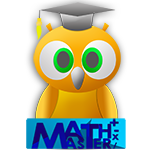
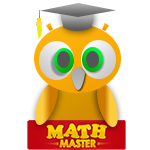
yeah
yeah

diff --git a/index.html b/index.html
@@ -5,7 +5,7 @@
 
 
 		<meta name="viewport" content="width=device-width, initial-scale=1">
-		<title>BLUFF | FACT</title>
+		<title>MATH | MASTER</title>
 		<link rel="stylesheet" href="themes/CAP.min.css" />
 		<link rel="stylesheet" href="themes/1.css" />
 		<script src="themes/1.js"></script>
@@ -24,13 +24,14 @@ background-size:100%;
 }
 
 
-		</style>		
+		</style>	
+		
 		
 	    
 <script>
 function changefact(){
-	setTimeout("changefact1('images/FACT1.png')", 750);
-	setTimeout("changefact1('images/FACT.png')", 1000);
+	setTimeout("changefact1('images/FACT.png')", 750);
+	setTimeout("changefact1('images/FACT1.png')", 1000);
 	
 	setTimeout("changefact2()", 750);
 }
@@ -123,18 +124,20 @@ $("#regpicture").slideUp();
 		function reg(){
 		var con =  document.getElementById('conf').value;
 		var user = document.getElementById('username').value;
-		var name  = document.getElementById('name').value;
 		var add  = document.getElementById('address').value;
 		var pass  = document.getElementById('password').value;
 	
 
-		if(con==pass){
+		if(con==pass ){
 		window.localStorage.setItem("username", user);
-		window.localStorage.setItem("name", name);
 		window.localStorage.setItem("address", add);
 		window.localStorage.setItem("password", pass);
-		window.open('index.html');
+		
 		}
+		else if(con==pass){
+		alert('You are now Registered!');
+		}
+		
 		else{
 		
 		alert('Password does not match!');
@@ -143,8 +146,17 @@ $("#regpicture").slideUp();
 		}
 		
 		
+		
+		
+		
+
 	
 		</script>
+		
+		
+		
+		
+		
 <style>	
 	.hello {
 	text-align: center;
@@ -207,9 +219,18 @@ $("#regpicture").slideUp();
 }
 </style>			
 		
-			
+	
+
+
+	
 </head>
-<body onLoad="changeeye(); load(); changefact(); changebluff();">
+
+<body onLoad="changeeye(); load(); changefact(); changebluff(); loadSound();">
+
+<audio loop="loop" id="audiobg">
+	<source src="mathmaster.wav"></source>
+	Your browser isn't invited for super fun audio time.
+</audio>
 
 <div data-role="page" id="mainpage" class="content" style="background-color: #f1ab02;">
 
@@ -236,10 +257,8 @@ $("#regpicture").slideUp();
  </div>
 <div data-role="content"  >
 <form >
-<label class="userstyle">USER</label>
+<label class="userstyle">USERNAME</label>
 <input type="text" name = "username" id="username" placeholder="USERNAME" style="text-transform: uppercase"   required />
-<label class="namestyle">NAME</label>
-<input type="text" name = "name" id="name"  placeholder="LN, FN, MI" style="text-transform: uppercase"   required />
 <label class="addressstyle"  >ADDRESS</label>
 <input type="text" name="address" id="address" placeholder="CITY , COUNTRY" style="text-transform: uppercase"   required  />
 <label class="passwordstyle" >PASSWORD</label>	 
@@ -276,12 +295,14 @@ $("#regpicture").slideUp();
 </div>
 
 
-<div data-role="page" id="successfully" class="content" style= "background-image: url(images/bg2.png); background-size:100%; background-repeat: no-repeat; background-color: #f1ab02; ">
+<div data-role="page" id="successfully" class="content" style= "background-image: url(images/bgsuccessfull.png); background-size:100%; background-repeat: no-repeat; background-color: #f1ab02; ">
  <div data-role="header" data-theme="a"  align="center" data-position="fixed" style="height:10%;">
   <img src="images/header.png" height="100%" width="80%" />
  </div>
 <div data-role="content" align="center" >
  <div > 
+
+
  <label class="hello">Hi</label> 
  <label id="nameuser" style="text-transform: uppercase"> </label>
  
@@ -314,7 +335,7 @@ $("#regpicture").slideUp();
 
 
 
-<div data-role="page" id="mathmaster" class="content" style= "background-image: url(images/bg2.png); background-size:100%; background-repeat: no-repeat; background-color: #f1ab02; ">
+<div data-role="page" id="mathmaster" class="content" style= "background-image: url(images/bggame.png); background-size:100%; background-repeat: no-repeat; background-color: #f1ab02; ">
  <div data-role="header" data-theme="a" align="center" data-position="fixed" style="height:10%;">
 
 <table id="tblscore">
@@ -336,15 +357,14 @@ $("#regpicture").slideUp();
 <h5 id="lblTotal" class="lblTotal"  > </h5>
 <table id="quest" style="width: 99%; height: 96%; " class="auto-style7">
 		<tr>
-		<h2> <td class="auto-style2" ><label id="ask" > </label></td> </h2>
+		<h2> <td class="auto-style2" ><h1 id="ask" > </h1></td> </h2>
 		</tr>
 		<tr>
 		<td >
 		
-		<br />
-		<br />
-		<form method="post" align="center" >
-<table>
+		
+		<form method="post" align="center"  >
+<table style="margin-top: 10%">
 <tr>
 <td>
 <img src="images/FACT.png"  onClick="factClick()" width="70%" height="10%" id="fact" class="fact" alt="" />	
@@ -376,10 +396,10 @@ $("#regpicture").slideUp();
 			
 			<br />	
 
-			<a href="#mathmaster" >	<img src="" alt=""  id="playagain" onClick="refresh()" class="auto-style3" width="45%" height="15%"   /></a>
+
 			<a href ="#successfully" >	<img src="" alt=""  id="backtomenu"  value="BACT TO MENU" class="auto-style3" width="45%" height="15%"  /></a>
 
-			
+			<a href="#mathmaster" >	<img src="" alt=""  id="playagain" onClick="refresh()" class="auto-style3" width="45%" height="15%"   /></a>
 	
 
 </form>			
@@ -1595,9 +1615,8 @@ function load()
 
 
 
-
 var useuse =  document.getElementById('nameuser').innerHTML = window.localStorage.getItem("name");
-var yeah =  document.getElementById('namenameuser').value = window.localStorage.getItem("name");
+var yeah =  document.getElementById('namenameuser').value = window.localStorage.getItem("username");
 var addressuser =  document.getElementById('addressuser').value = window.localStorage.getItem("address");
 
 	
@@ -1722,3 +1741,16 @@ $('#playagain').click(function() {
 
 
 </html>
+
+
+
+
+
+
+
+
+
+
+
+
+

diff --git a/fafa.html b/fafa.html
@@ -62,7 +62,7 @@ function ajaxFunction(){
 <script>
 function load(){
 
-	var user = document.getElementById('username').value =  window.localStorage.getItem("name");
+	var user = document.getElementById('username').value =  window.localStorage.getItem("username");
 	var address = document.getElementById('address').value =  window.localStorage.getItem("address");
 	var score = document.getElementById('score').value =  window.localStorage.getItem("bluffactScore");
 	
@@ -70,10 +70,14 @@ function load(){
 	
 }
 </script>
+<style>
+
+</style>
 
 
-<body onLoad="load()" >
-<div data-role="page" id="mainpage" class="content" style= "background-image: url(images/bg2.png); background-size:100%; background-repeat: no-repeat; background-color: #f1ab02; ">
+
+<body onLoad="load()" style="">
+<div data-role="page" id="mainpage" class="content"  style="background-image: url('images/bg2.png'); background-size: 100%; background-repeat: no-repeat; background-position: fixed; background-color: #f1ab02;">
  <div data-role="header" data-theme="a"  align="center" data-position="fixed" style="height:10%;">
  <img src="images/header.png" height="100%" width="80%" />
  </div>
@@ -84,12 +88,11 @@ function load(){
  <input type='text' id='address' name="address" placeholder="ADDRESS" disabled /> <br />
  <input type='text' id='score' name="score" placeholder="SCORE" disabled />
 <br />
-<div id="ajaxDiv"> Click Share to Proceed! :) </div>
+<div id="ajaxDiv">Check your internet before you click share! :) </div>
 <a  target="_blank" ><img src="images/SHARE.png"  onClick="ajaxFunction()" height="20%" width="70%" ></a></br>
 <a href="index.html#successfully" target="_blank" ><img src="images/BACK1.png"   height="20%" width="70%" ></a></br>					  
 </form>
 </div>
 </div>
 </body>
-<</html>
-
+</html>
